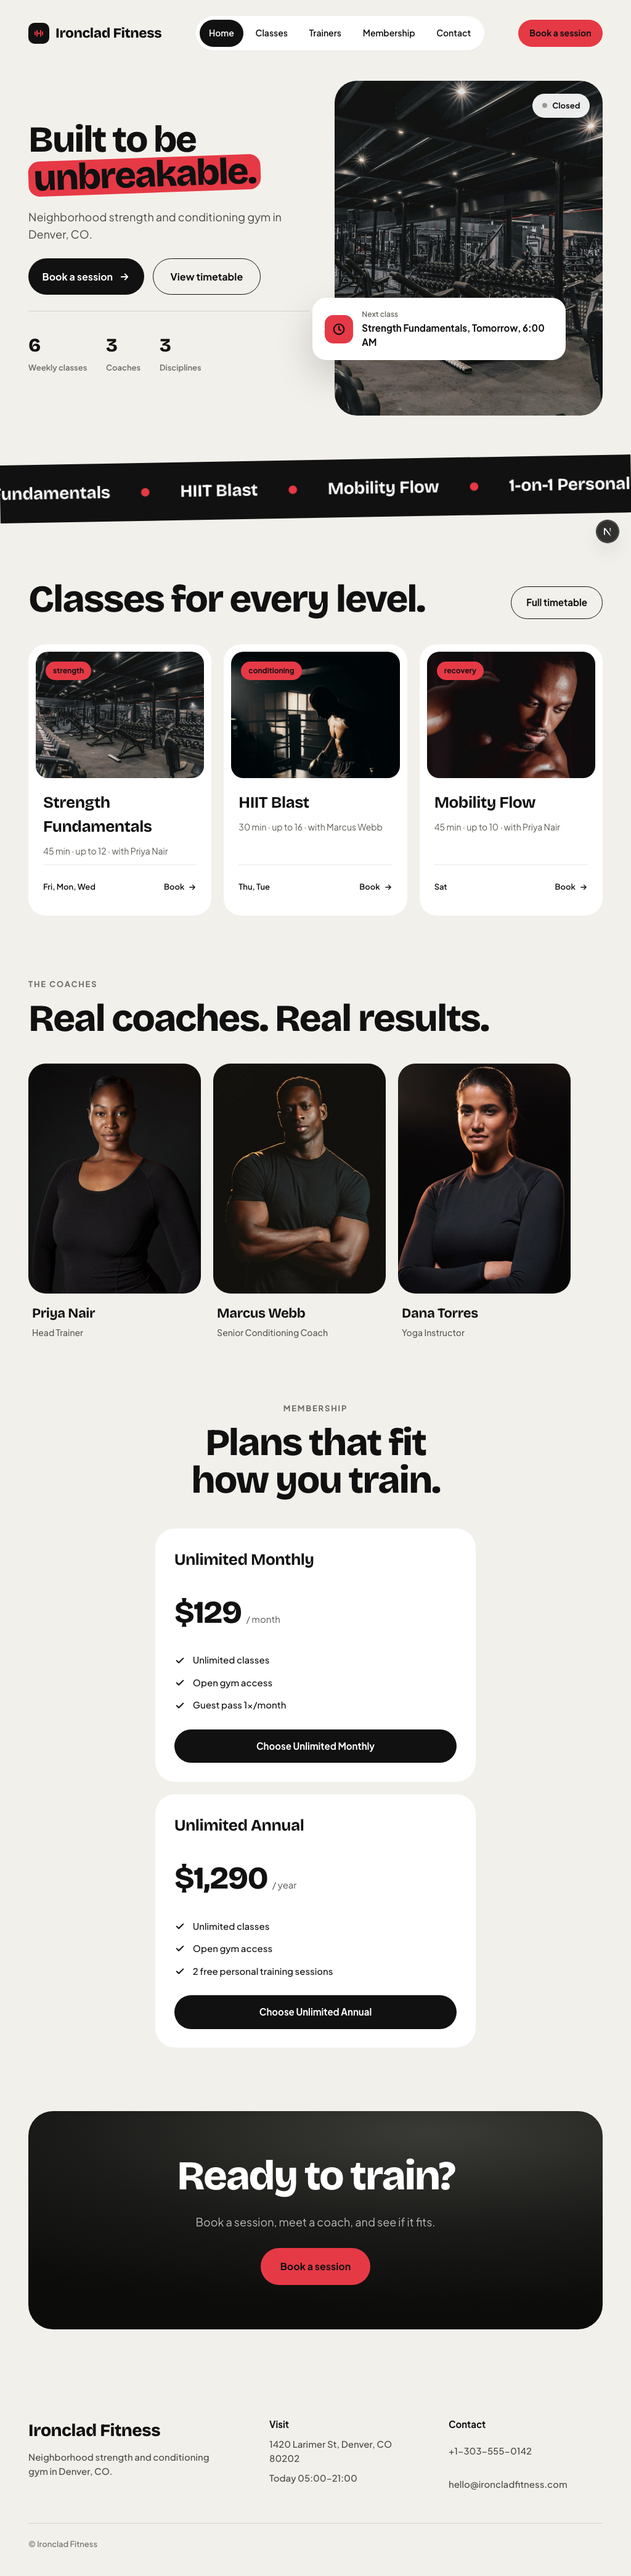
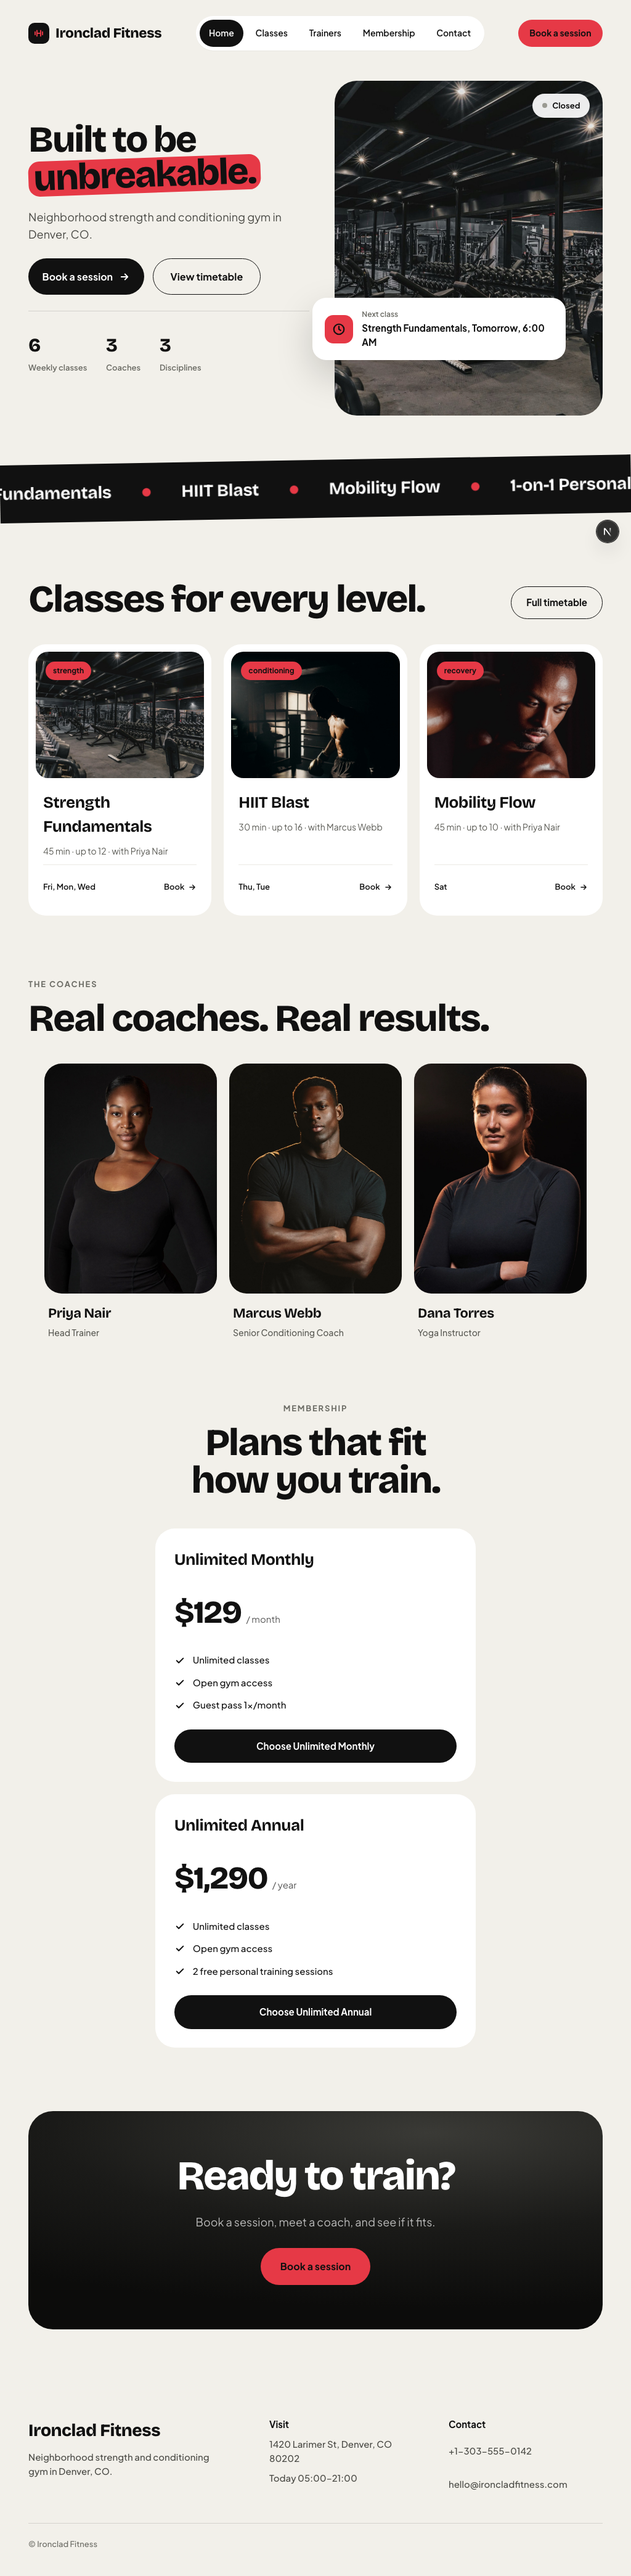
Centre trainer rows, fill hero column, refresh responsive screenshots

diff --git a/apps/web/src/app/(site)/_components/home/home.module.css b/apps/web/src/app/(site)/_components/home/home.module.css
@@ -21,7 +21,7 @@
 .statV { font-family: var(--site-display); font-weight: 800; font-size: clamp(28px, 3vw, 36px); letter-spacing: -0.03em; }
 .statL { font-size: 13px; font-weight: 600; color: var(--site-muted); }
 .heroMedia { position: relative; min-width: 0; }
-.heroPhoto { aspect-ratio: 4 / 5; max-height: min(700px, 80vh); border-radius: var(--site-r-36); background: url(/atmosphere/gym-interior.jpg) center / cover no-repeat, radial-gradient(120% 80% at 70% 10%, #3a3a36 0%, #1a1a18 55%, #0c0c0b 100%); }
+.heroPhoto { width: 100%; aspect-ratio: 4 / 5; max-height: min(700px, 80vh); border-radius: var(--site-r-36); background: url(/atmosphere/gym-interior.jpg) center / cover no-repeat, radial-gradient(120% 80% at 70% 10%, #3a3a36 0%, #1a1a18 55%, #0c0c0b 100%); }
 .nextCard { position: absolute; left: -36px; bottom: 90px; background: #fff; border-radius: 22px; padding: 18px 20px; display: flex; align-items: center; gap: 14px; box-shadow: 0 24px 60px rgba(0, 0, 0, 0.18); max-width: calc(100% - 24px); }
 .nextIcon { flex: none; width: 46px; height: 46px; border-radius: 14px; background: var(--site-accent); color: var(--site-accent-ink); display: flex; align-items: center; justify-content: center; }
 .nextText { display: flex; flex-direction: column; gap: 2px; min-width: 0; }
@@ -52,8 +52,7 @@
 .h3 { margin: 0; font-weight: 700; font-size: 26px; letter-spacing: -0.02em; }
 .grid4 { display: grid; grid-template-columns: repeat(auto-fit, minmax(min(100%, 260px), 1fr)); gap: 20px; }
 /* Trainers: portrait cards stay 220-300px wide and centre, so they never balloon on tablets. */
-.gridTrainers { display: flex; flex-wrap: wrap; justify-content: flex-start; gap: 20px; }
-@media (max-width: 900px) { .gridTrainers { justify-content: center; } }
+.gridTrainers { display: flex; flex-wrap: wrap; justify-content: center; gap: 20px; }
 .grid3 { display: grid; grid-template-columns: repeat(auto-fit, minmax(min(100%, 280px), 1fr)); gap: 20px; align-items: stretch; max-width: calc(var(--n, 3) * 460px); margin: 0 auto; }
 
 @media (max-width: 1040px) {
@@ -63,7 +62,7 @@
 @media (max-width: 900px) {
   .hero { grid-template-columns: minmax(0, 1fr); gap: 32px; }
   .heroH { font-size: clamp(34px, 11vw, 84px); }
-  .heroPhoto { aspect-ratio: 4 / 3; max-height: min(520px, 70vh); }
+  .heroPhoto { width: 100%; aspect-ratio: 4 / 3; max-height: min(520px, 70vh); }
   .nextCard { left: 12px; bottom: 12px; padding: 12px 14px; gap: 10px; border-radius: 18px; }
   .nextIcon { width: 38px; height: 38px; border-radius: 12px; }
   .nextV { overflow-wrap: anywhere; }

diff --git a/apps/web/src/app/(site)/trainers/page.module.css b/apps/web/src/app/(site)/trainers/page.module.css
@@ -3,6 +3,5 @@
 .chips { display: flex; flex-wrap: wrap; gap: 10px; }
 .chip { min-height: 44px; padding: 0 20px; border-radius: 999px; border: 1.5px solid var(--site-ink); background: transparent; color: var(--site-ink); font: inherit; font-size: 15px; font-weight: 700; cursor: pointer; }
 .chip[aria-pressed="true"] { background: var(--site-ink); color: #fff; }
-.grid { display: flex; flex-wrap: wrap; justify-content: flex-start; gap: 20px; }
-@media (max-width: 900px) { .grid { justify-content: center; } }
+.grid { display: flex; flex-wrap: wrap; justify-content: center; gap: 20px; }
 .note { margin: 0; color: var(--site-body); font-size: 16px; }
